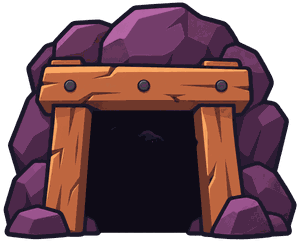
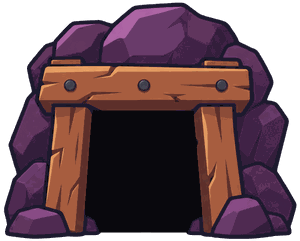
Abismo: las cuatro entradas a oscuras ya son las dibujadas
Cada entrada de la hoja se escala y se coloca sobre su versión con trampa (más del 99 % de la silueta
coincide), así al caer o encender la antorcha la piedra no se mueve, solo cambia lo de dentro.

Claude-Session: https://claude.ai/code/session_01JNP7QCwsBCjLSMGndzwo2W

diff --git a/herramientas/abismo_arte.py b/herramientas/abismo_arte.py
@@ -2,7 +2,7 @@
 """Prepara el arte del Abismo del Despertar (assets/abismo -> docs/img/abismo).
 - fondo.jpg (vertical, pantalla del Abismo) y cartel.jpg (horizontal, tarjeta de Eventos y fondo en horizontal)
 - las 4 entradas con sus 3 trampas (vacío, lava, sombras), todas con el mismo recorte para que encajen igual
-- cada entrada "a oscuras" (sin trampa a la vista): la de sombras con la boca rellena de negro
+- cada entrada "a oscuras" (sin trampa a la vista), de la hoja entradas.png
 - cuerda, antorcha e insignia de mando (docs/img/insignia.png)
 Uso: python3 herramientas/abismo_arte.py"""
 import os
@@ -27,22 +27,27 @@ box = (box[0] - 6, box[1] - 6, box[2] + 6, box[3] + 6)
 LADO = 300
 def salida(im): im = im.crop(box); return im.resize((LADO, round(LADO * im.height / im.width)), Image.LANCZOS)
 for (k, t), im in ims.items(): guarda(salida(im), os.path.join(O, f'{k}_{t}.png'))
-# a oscuras: el marco de piedra es igual en las tres trampas; lo que cambia entre ellas es el interior de la boca.
-# Ese interior (sin las líneas finas de los bordes) se pinta de negro sobre la de sombras: se van los ojos.
-for k in CAMINOS:
-    v = [np.asarray(ims[(k, t)]).astype(int) for t in TRAMPAS]
-    d = np.zeros(v[0].shape[:2], bool)
-    for x in range(3):
-        for y in range(x + 1, 3): d |= np.abs(v[x][..., :3] - v[y][..., :3]).sum(2) > 60
-    d = nd.binary_opening(d, iterations=3)
-    lab, n = nd.label(d); tam = nd.sum(d, lab, range(1, n + 1))
-    d = np.isin(lab, [i + 1 for i, t in enumerate(tam) if t > 3000])
-    boca = nd.binary_fill_holes(nd.binary_closing(d, iterations=8)) & (v[2][..., 3] > 200)
-    h, w = boca.shape; g = np.linspace(0, 1, h)[:, None]
-    out = v[2].astype(float)
-    for ch, (c0, c1) in enumerate(zip([24, 18, 38], [7, 6, 14])): out[..., ch] = np.where(boca, (1 - g) * c0 + g * c1, out[..., ch])
-    print(k, 'boca', int(boca.sum()), 'px')
-    guarda(salida(Image.fromarray(out.clip(0, 255).astype(np.uint8), 'RGBA')), os.path.join(O, f'{k}.png'))
+# a oscuras: la hoja de las cuatro entradas vacías (2×2, en el orden gruta, cueva / grieta, túnel), cada una
+# escalada y colocada sobre su versión con trampa para que al cambiar de una a otra la piedra no se mueva
+hoja = Image.open(os.path.join(A, 'entradas.png')).convert('RGBA'); q = hoja.width // 2
+caja = lambda im: im.getchannel('A').point(lambda v: 255 if v > 24 else 0).getbbox()
+for n, k in enumerate(CAMINOS):
+    x0, y0 = (n % 2) * q, (n // 2) * q
+    pieza = hoja.crop((x0, y0, x0 + q, y0 + q)); pieza = pieza.crop(caja(pieza))
+    ref = ims[(k, 'sombras')]; rb = caja(ref); rw, rh = rb[2] - rb[0], rb[3] - rb[1]
+    mejor = None
+    for ds in np.linspace(-0.02, 0.02, 9):   # ajuste fino: la escala y el sitio que mejor tapan la silueta de la de trampa
+        sc = (rw / pieza.width + rh / pieza.height) / 2 * (1 + ds)
+        p2 = pieza.resize((round(pieza.width * sc), round(pieza.height * sc)), Image.LANCZOS)
+        for dx in range(-6, 7, 2):
+            for dy in range(-6, 7, 2):
+                lien = Image.new('RGBA', ref.size, (0, 0, 0, 0))
+                lien.paste(p2, (round((rb[0] + rb[2] - p2.width) / 2) + dx, round((rb[1] + rb[3] - p2.height) / 2) + dy), p2)
+                a1 = np.asarray(lien.getchannel('A')) > 128; a2 = np.asarray(ref.getchannel('A')) > 128
+                iou = (a1 & a2).sum() / (a1 | a2).sum()
+                if not mejor or iou > mejor[0]: mejor = (iou, lien)
+    print(k, 'encaje', round(mejor[0], 4))
+    guarda(salida(mejor[1]), os.path.join(O, f'{k}.png'))
 # objetos
 for n, dst in [('cuerda', os.path.join(O, 'cuerda.png')), ('antorcha', os.path.join(O, 'antorcha.png')), ('insignia', os.path.join(R, 'docs/img/insignia.png'))]:
     im = Image.open(os.path.join(A, n + '.png')).convert('RGBA'); im = im.crop(im.getchannel('A').point(lambda v: 255 if v > 24 else 0).getbbox())
